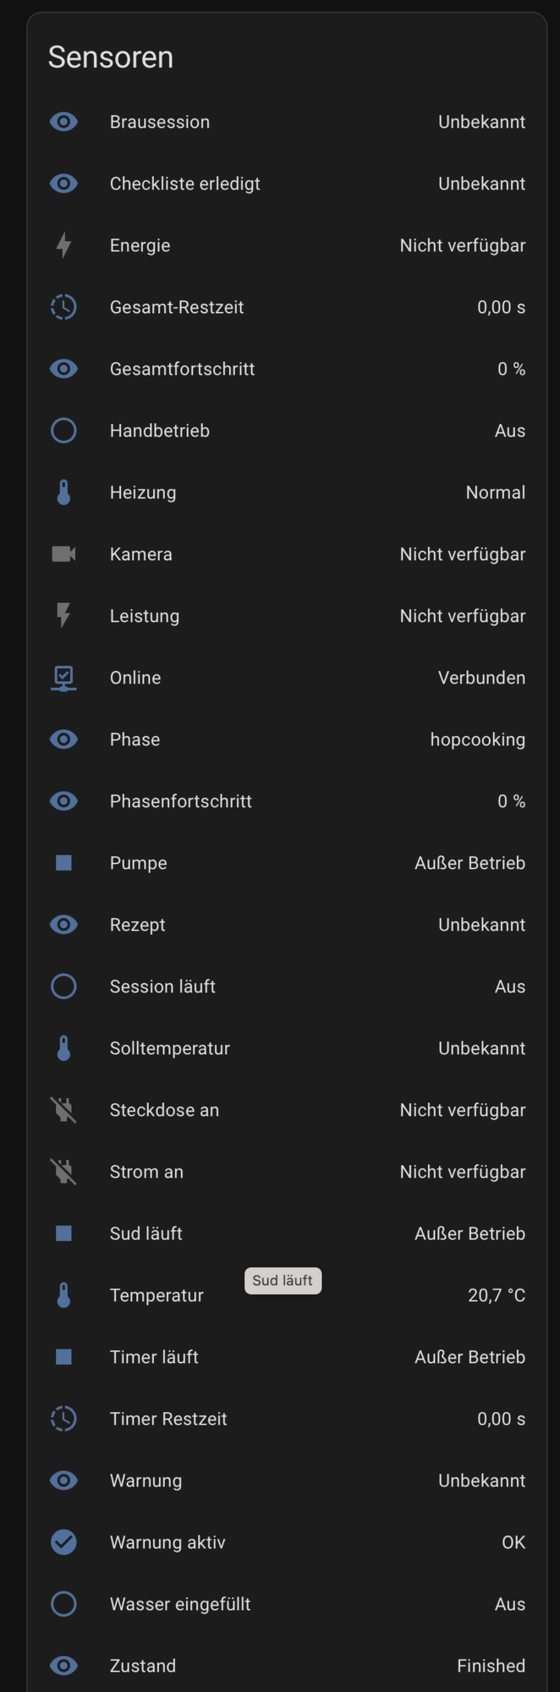
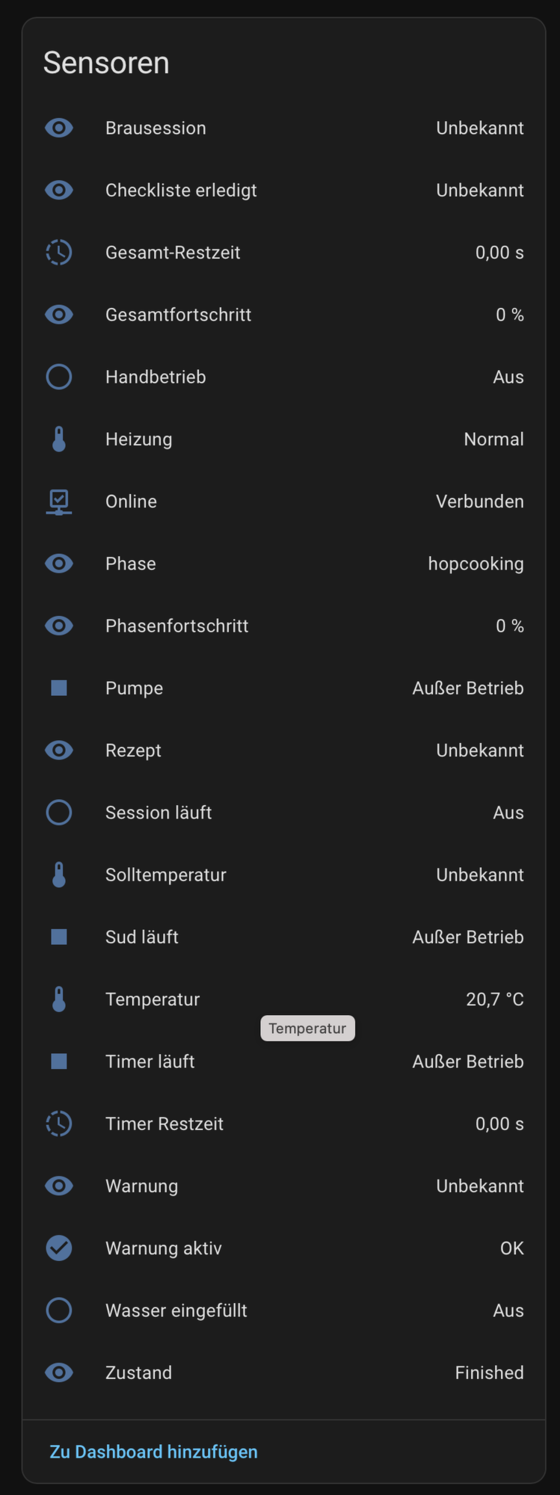
docs: aktuelle Screenshots (Steuerung, Sensoren, Diagnose), Version 1.1.3

diff --git a/README.md b/README.md
@@ -27,6 +27,10 @@ Temperatur, Zustand, Fortschritt und Warnungen im Blick, Steuerung per Knopfdruc
 
 <img src="https://raw.githubusercontent.com/tomfxs/braumeister-homeassistant/main/images/sensoren.png" width="320" alt="Sensoren des Braumeisters">
 
+**Diagnose** – Firmware, letzter Handy-Hinweis und Probelauf:
+
+<img src="https://raw.githubusercontent.com/tomfxs/braumeister-homeassistant/main/images/diagnose.png" width="420" alt="Diagnose">
+
 ## 📦 Voraussetzungen
 
 - Home Assistant **2025.1** oder neuer mit installiertem [HACS](https://hacs.xyz)
